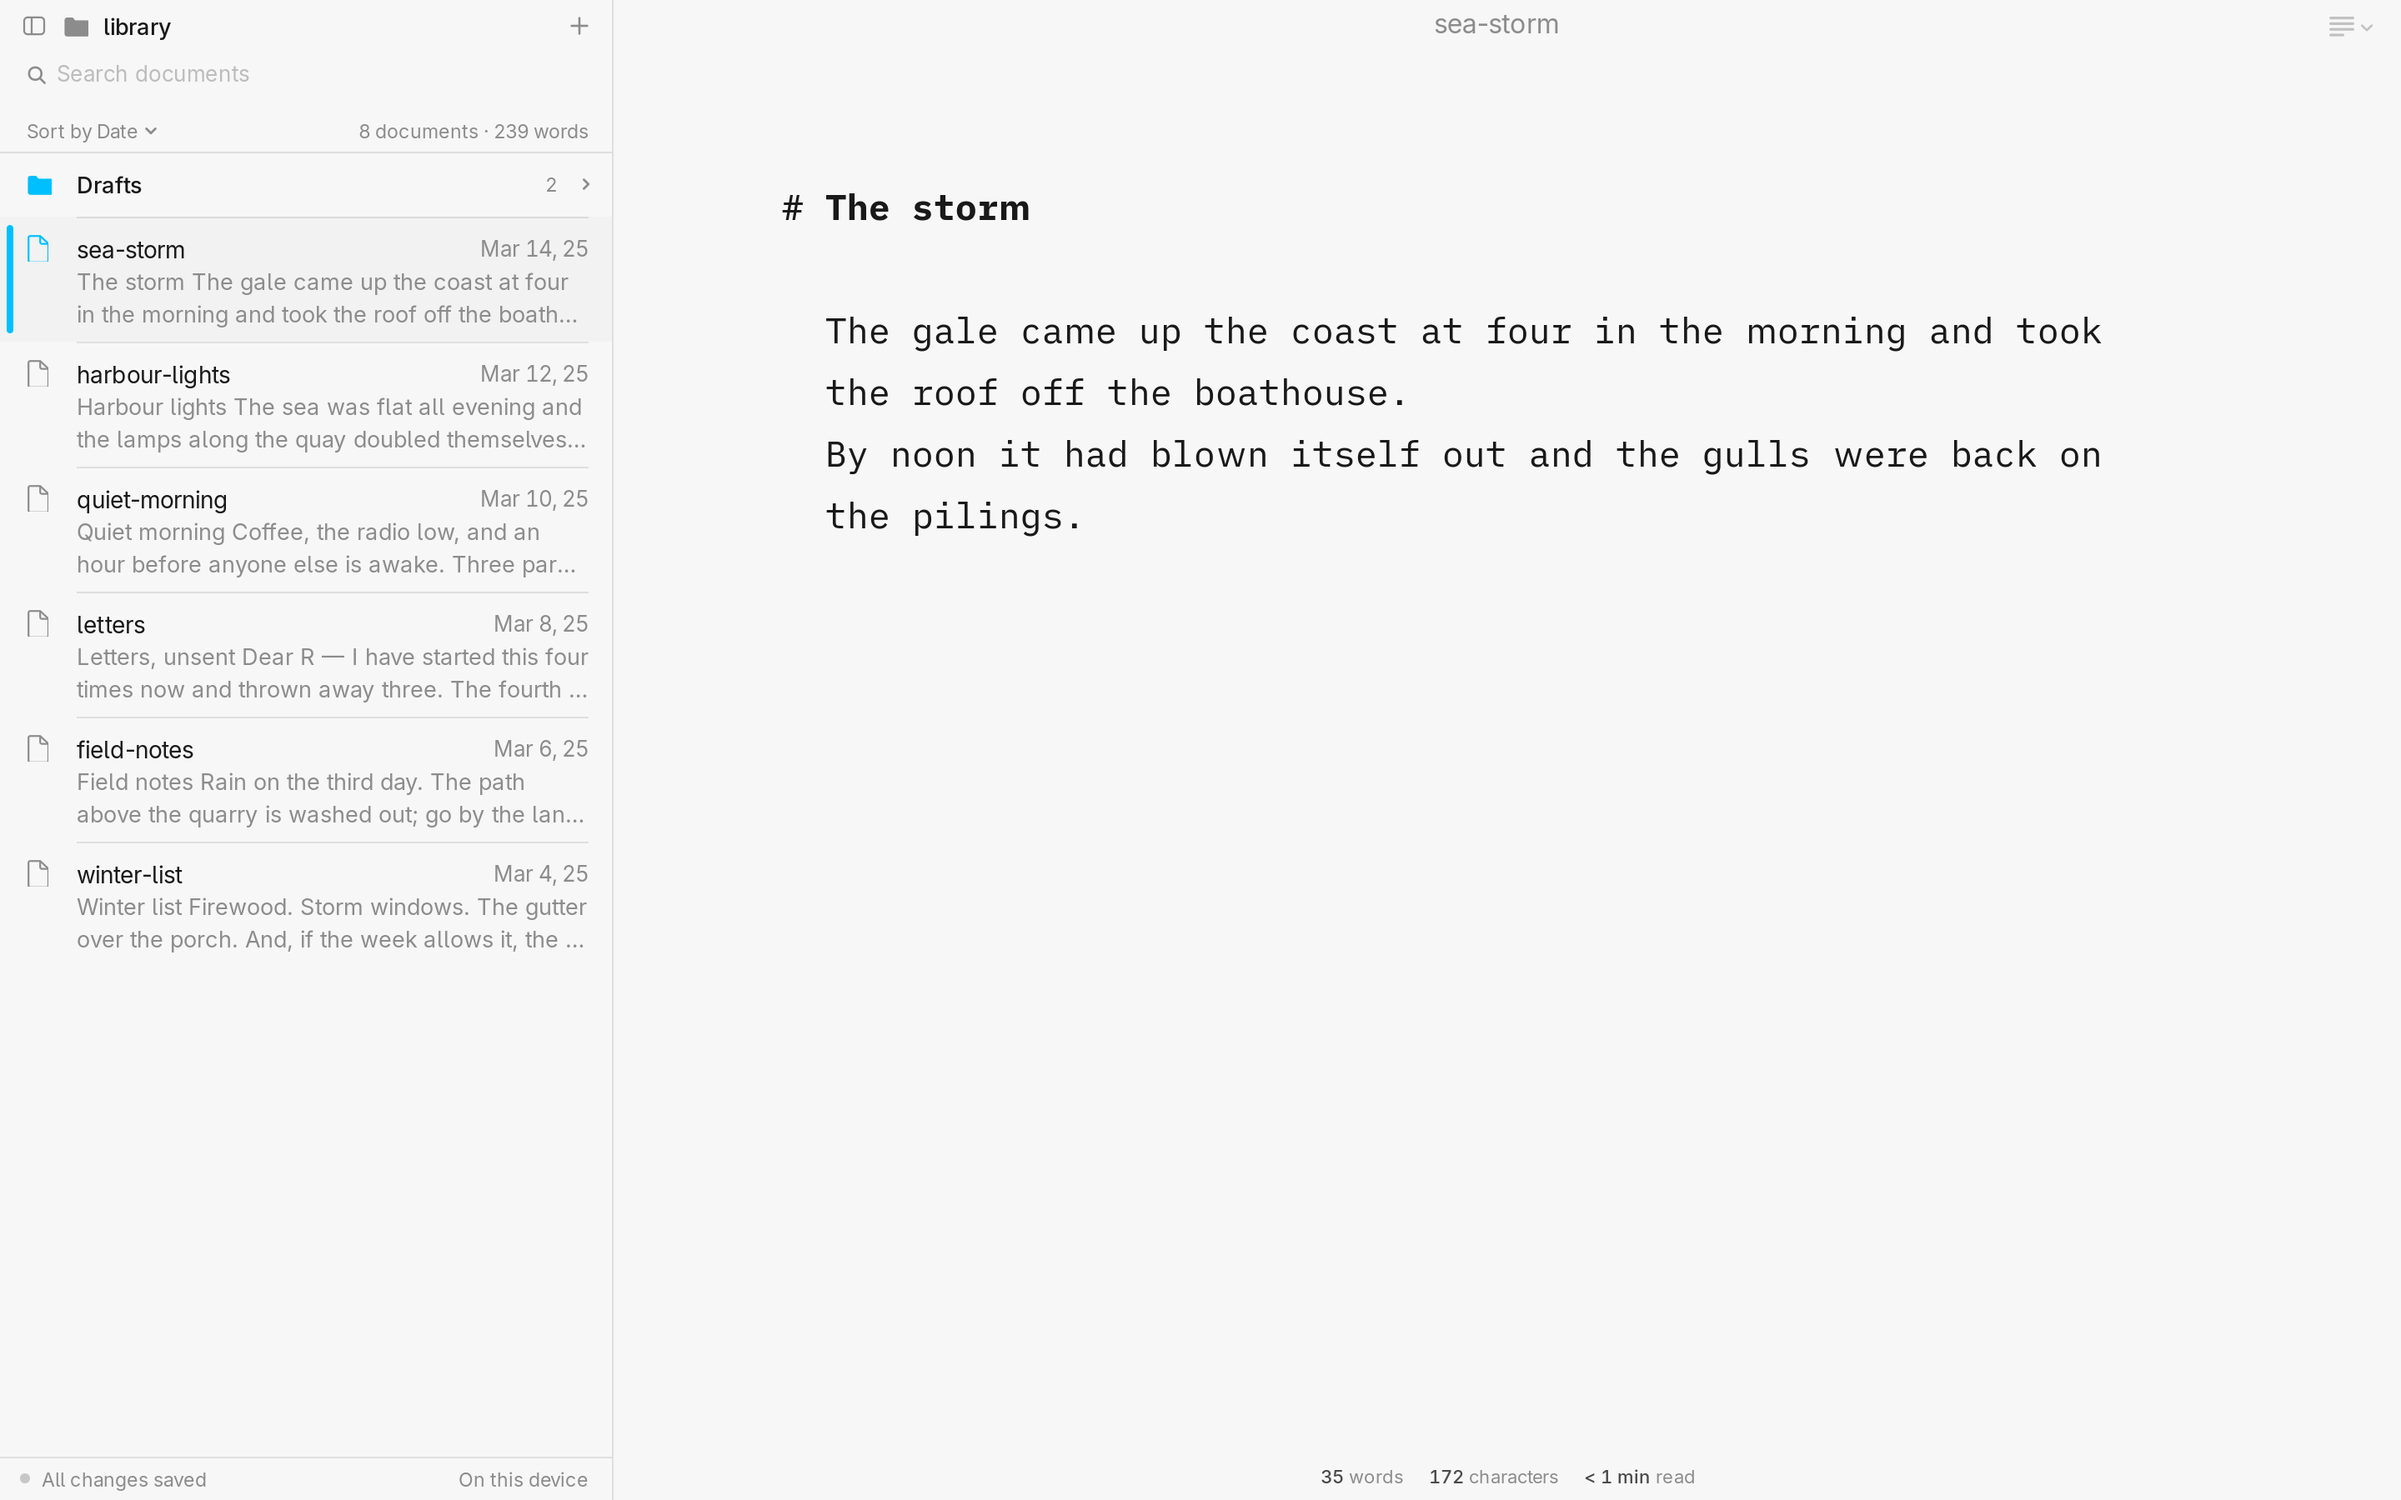
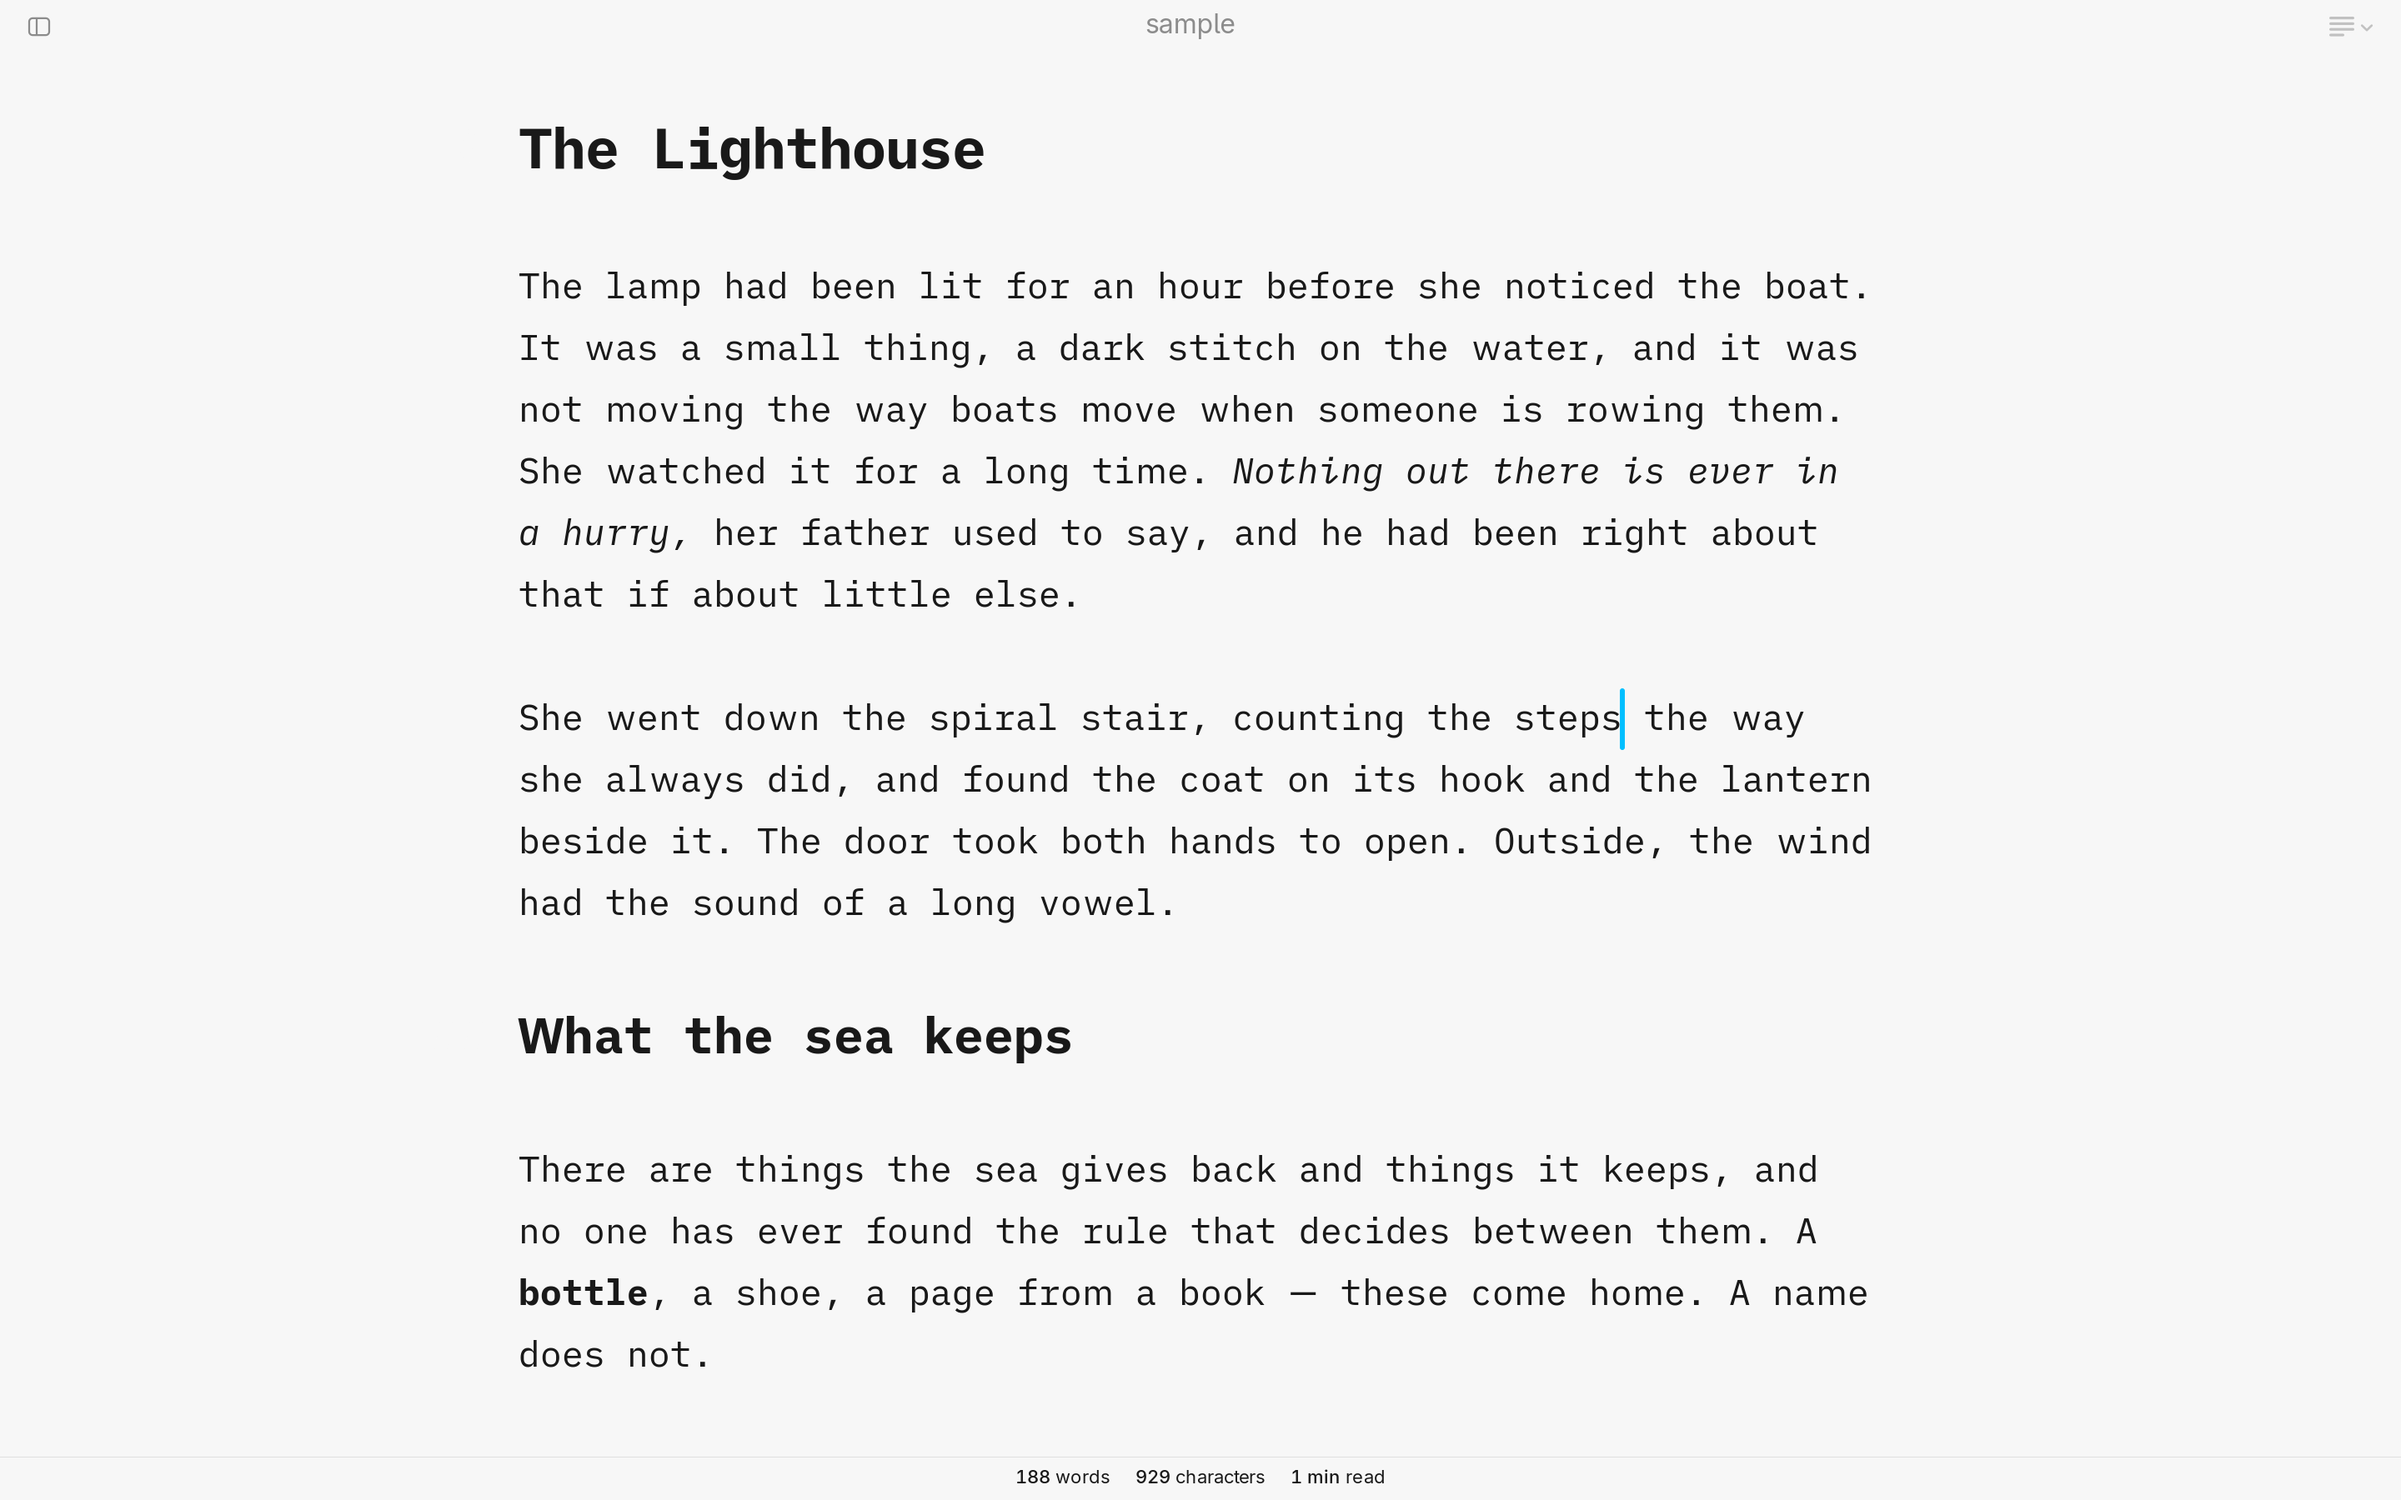
README: the sample passage with Live on, and focus mode in dark
The lead screenshot is dev/ref/sample.md in light with Live on, the caret
lit and no Library; a second, under Features, is the same passage in dark
with sentence focus and Live off. Both shot on the Gate's headless stage
from the release build, at the judged states' defaults.

diff --git a/README.md b/README.md
@@ -2,7 +2,7 @@
 
 A focused Markdown writing app for Linux. Native GTK4, written in Rust.
 
-![Quill with the Library open beside a document](docs/screenshot.png)
+![A document in Quill with Live on: headings and emphasis rendered in place, the caret in blue](docs/screenshot.png)
 
 ## Install
 
@@ -35,6 +35,8 @@ quill notes.md          # open a file
   nouns, verbs, adjectives, adverbs and conjunctions.
 - **Statistics**: words, characters, sentences, paragraphs and reading time.
 - Three typefaces (Duo, Quattro and Mono), light and dark, and palettes you can set yourself.
+
+![Focus mode in dark: the sentence being written stays bright and the rest of the page dims](docs/screenshot-focus-dark.png)
 
 `Ctrl+K` opens every command and setting in one searchable list; `docs/shortcuts.md` lists every
 shortcut.
